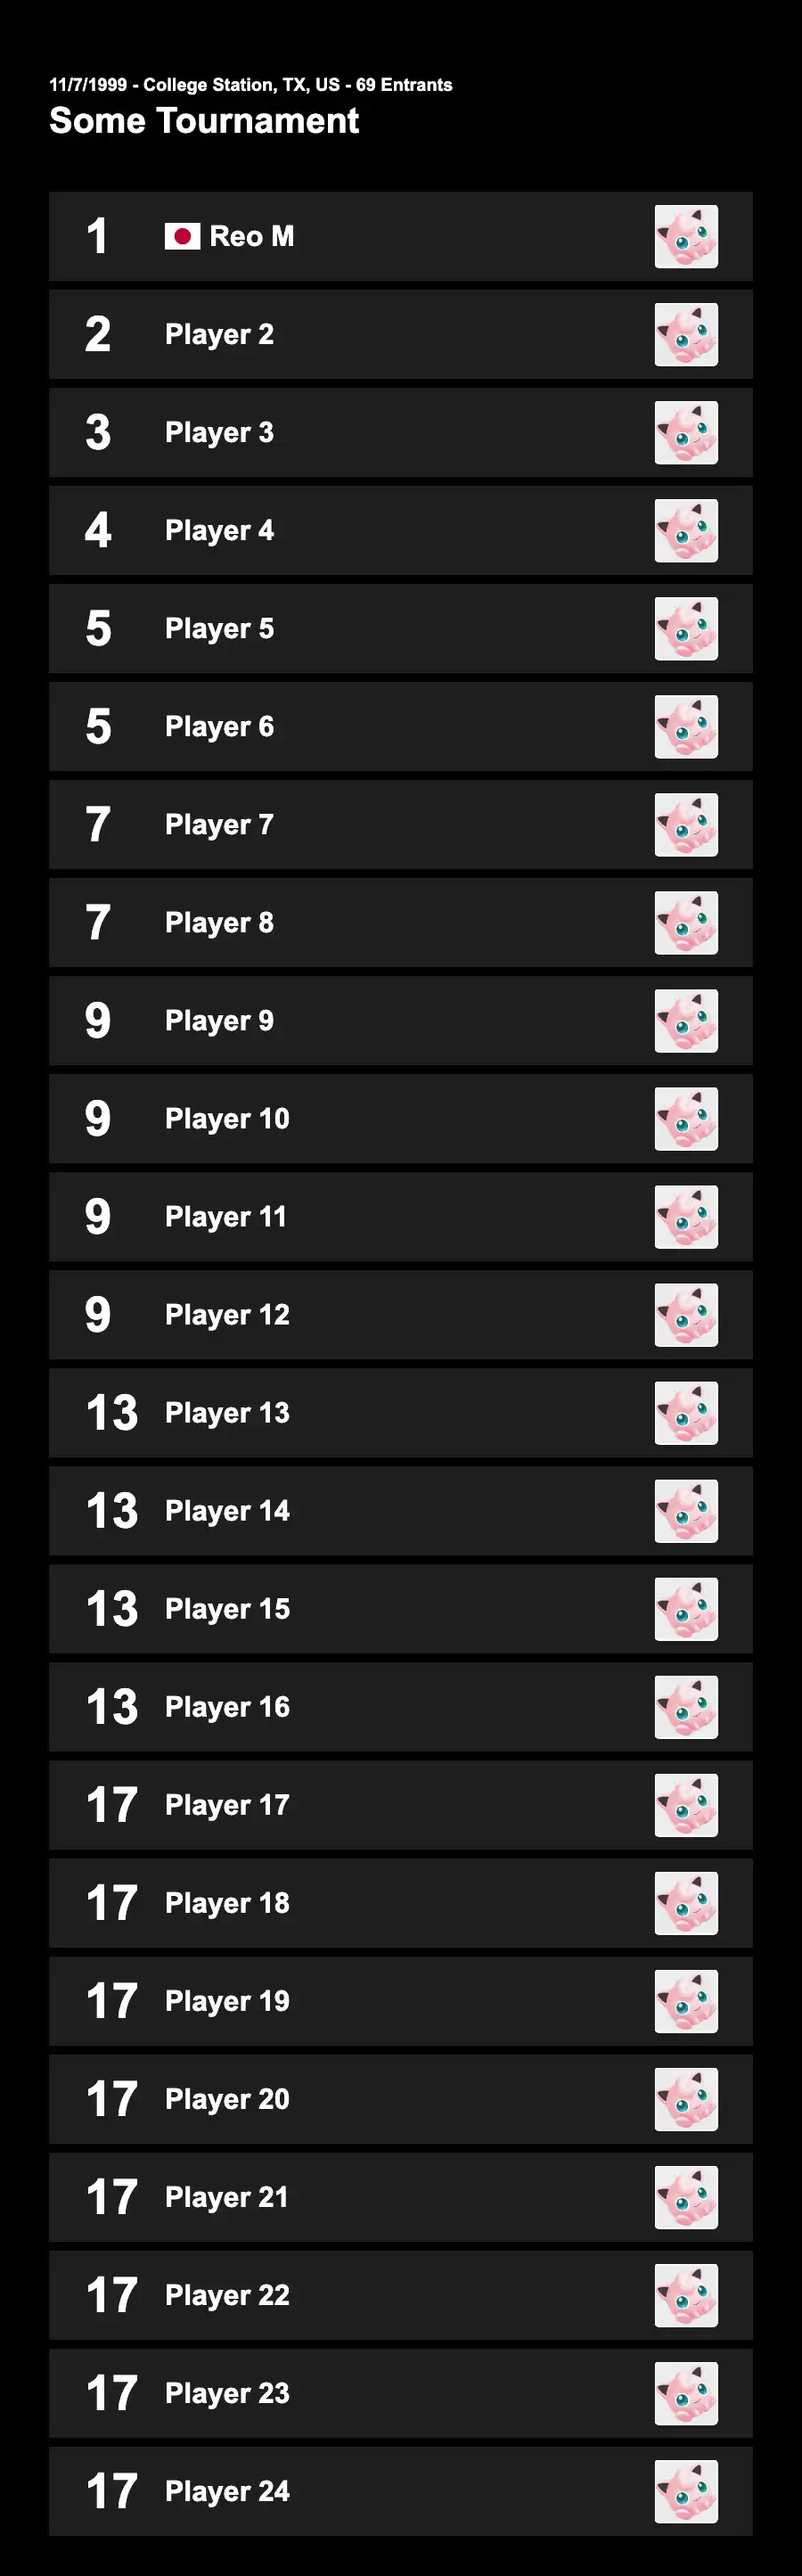
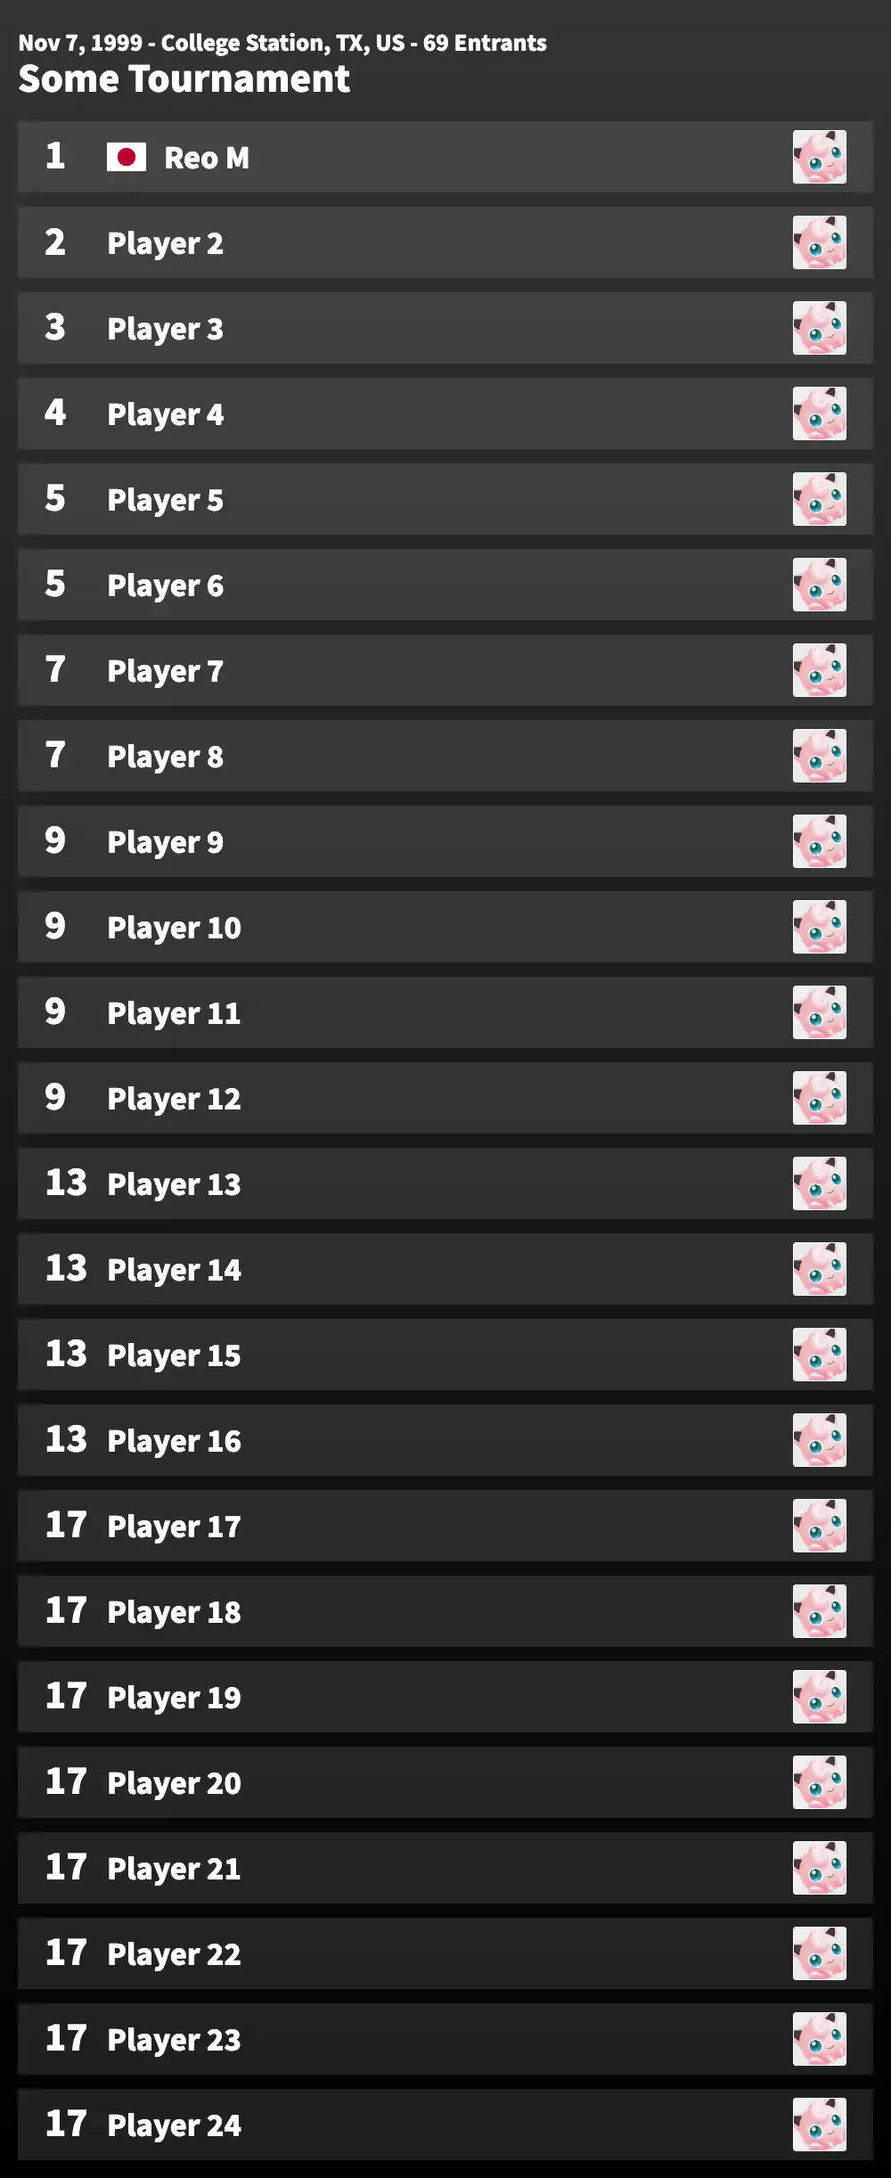
update template thumbnails

diff --git a/src/tools/PreviewGenerator.tsx b/src/tools/PreviewGenerator.tsx
@@ -5,6 +5,8 @@ import { Stage as KonvaStage } from "konva/lib/Stage";
 
 import { createKonvaElements } from "@/utils/top8/elementFactory";
 import { createSamplePlayers } from "@/utils/top8/samplePlayers";
+import { fetchFontFamily } from "@/utils/top8/fetchAndMapFonts";
+import { loadFont } from "@/utils/top8/loadFont";
 import { TournamentInfo } from "@/types/top8/Tournament";
 import { DBTemplate } from "@/types/Repository";
 
@@ -246,6 +248,25 @@ const TemplateRenderer = ({
 const PreviewGeneratorApp = () => {
   const capturedRef = useRef<Map<string, string>>(new Map());
   const [done, setDone] = useState(false);
+  const [fontsReady, setFontsReady] = useState(false);
+
+  useEffect(() => {
+    const uniqueFonts = [...new Set(TEMPLATES.map((t) => t.font))];
+    console.log(`Loading fonts: ${uniqueFonts.join(", ")}...`);
+
+    Promise.all(
+      uniqueFonts.map(async (family) => {
+        const font = await fetchFontFamily(family);
+        await loadFont(font);
+        console.log(`Loaded font: ${family}`);
+      })
+    )
+      .then(() => setFontsReady(true))
+      .catch((error) => {
+        console.error("Font loading failed:", error);
+        window.__previewError = `Font loading failed: ${error}`;
+      });
+  }, []);
 
   const handleCaptured = useCallback((id: string, dataUrl: string) => {
     capturedRef.current.set(id, dataUrl);
@@ -271,9 +292,11 @@ const PreviewGeneratorApp = () => {
       <p>
         {done
           ? `Done! Captured ${TEMPLATES.length} previews.`
-          : "Rendering templates..."}
+          : fontsReady
+            ? "Rendering templates..."
+            : "Loading fonts..."}
       </p>
-      {TEMPLATES.map((template) => (
+      {fontsReady && TEMPLATES.map((template) => (
         <TemplateRenderer
           key={template.id}
           template={template}

diff --git a/src/utils/top8/elementFactory/asyncTracking.ts b/src/utils/top8/elementFactory/asyncTracking.ts
@@ -5,6 +5,7 @@ import type {
   ElementConfig,
   GroupElementConfig,
   FlexGroupElementConfig,
+  CustomAltCharacterImageElementConfig,
 } from "@/types/top8/Design";
 import type { ElementFactoryContext } from "@/types/top8/ElementFactory";
 import { CustomImage } from "@/components/top8/Canvas/CustomImage";
@@ -47,6 +48,15 @@ export const countAsyncElements = (
       const player = context.player;
       if (player && player.characters.length > 0) {
         count += 1;
+      }
+    } else if (element.type === "customAltCharacterImage") {
+      const player = context.player;
+      if (player) {
+        const el = element as CustomAltCharacterImageElementConfig;
+        const charCount = el.includeMainCharacter
+          ? player.characters.length
+          : Math.max(0, player.characters.length - 1);
+        count += charCount;
       }
     } else if (element.type === "tournamentIcon") {
       if (context.tournament?.iconSrc) {

diff --git a/src/assets/previews/index.ts b/src/assets/previews/index.ts
@@ -4,6 +4,7 @@ import minimal from "./minimal.webp";
 import minimal_4 from "./minimal-4.webp";
 import minimal_16 from "./minimal-16.webp";
 import minimal_24 from "./minimal-24.webp";
+import kagaribi from "./kagaribi.webp";
 
 export const defaultPreviews: Record<string, string> = {
   "top8er": top8er,
@@ -12,4 +13,5 @@ export const defaultPreviews: Record<string, string> = {
   "minimal-4": minimal_4,
   "minimal-16": minimal_16,
   "minimal-24": minimal_24,
+  "kagaribi": kagaribi,
 };

diff --git a/scripts/generate-previews.ts b/scripts/generate-previews.ts
@@ -32,7 +32,7 @@ async function main() {
     // 3. Navigate to preview generator page
     console.log("Navigating to preview generator...");
     await page.goto(`${baseUrl}/preview-generator.html`, {
-      waitUntil: "networkidle",
+      waitUntil: "domcontentloaded",
     });
 
     // 4. Wait for previews to be ready

diff --git a/CLAUDE.md b/CLAUDE.md
@@ -17,6 +17,7 @@ bun extract          # Extract Lingui i18n strings
 bun compile          # Compile Lingui i18n catalogs
 bun codegen          # Generate TypeScript types from start.gg GraphQL schema
 bun codegenwatch     # Watch mode for GraphQL codegen
+bun generate:previews # Regenerate built-in template preview WebP images (uses Playwright + preview-generator.html)
 ```
 
 No test runner is configured. Use `bun lint` and `bun build` to validate changes.
